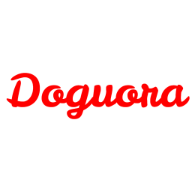
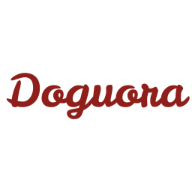
working on right header

Changed region(s): [[0.0312, 0.375, 1.0, 0.625]]

diff --git a/frontend/src/components/Navigation/Navigation.css b/frontend/src/components/Navigation/Navigation.css
@@ -27,13 +27,7 @@
   height: 100px;
   width: 100px;
 } */
-/* 
-.Header {
-  display: flex;
-  align-items: center;
-  justify-content: space-around;
-  margin-top: -50px;
-} */
+
 
 /* .Header_left {
   display: flex;
@@ -44,7 +38,7 @@
   width: 60%;
 }
 
-.left_logoImage{
+/* .left_logoImage{
   width: 100%;
 } */
 
@@ -82,3 +76,60 @@
 .right_btn {
   margin-right: 1em;
 } */
+
+.Header {
+  display: flex;
+  justify-content:center;
+  align-items: center;
+  padding: 1px;
+  background-color: white;
+  width: 100%;
+
+  position: sticky;
+  z-index: 1000;
+  top: 0;
+  box-shadow: 0px 5px 8px -9px rgba(0, 0, 0, 0.5);
+}
+
+.left_logoImage{
+  width: 60px;
+  margin-right: 20px;
+}
+
+.left_icons {
+  display: flex;
+  margin-right: 20px;
+}
+
+.left_icons > .left_icon {
+  color: grey;
+  cursor: pointer;
+  font-size: large;
+  padding: 5px 20px;
+}
+
+.left_icons > .left_icon:hover {
+  color: #8f1f1b;
+  border-radius: 10px;
+  background-color: lightgray;
+}
+
+.mid_search {
+  display: flex;
+  align-items: center;
+  border: 1px solid lightgray;
+  padding: 5px;
+  border-radius: 5px;
+}
+
+.center_inputField {
+  border: none;
+  outline: none;
+  background-color: transparent;
+}
+
+.right_header{
+  display: flex;
+  align-items: center;
+  margin-left: 25px;
+}

diff --git a/frontend/src/components/Navigation/index.js b/frontend/src/components/Navigation/index.js
@@ -3,7 +3,7 @@ import { NavLink } from 'react-router-dom';
 import { useSelector } from 'react-redux';
 import ProfileButton from './ProfileButton';
 import './Navigation.css';
-import logo from '../../images/apple-touch-icon.png';
+import logo from '../../images/android-chrome-192x192.png';
 import CreateQuestionModal from '../CreateQuestionPage';
 
 
@@ -50,10 +50,10 @@ function Navigation({ isLoaded }){
       </div>
 
       <div className="left_icons">
-        <div className="left_home">
+        <div className="left_icon">
           <i className="fas fa-home" />
         </div>
-        <div className="left_answers">
+        <div className="left_icon">
           <i className="fas fa-pencil-alt" />
         </div>
       </div>
